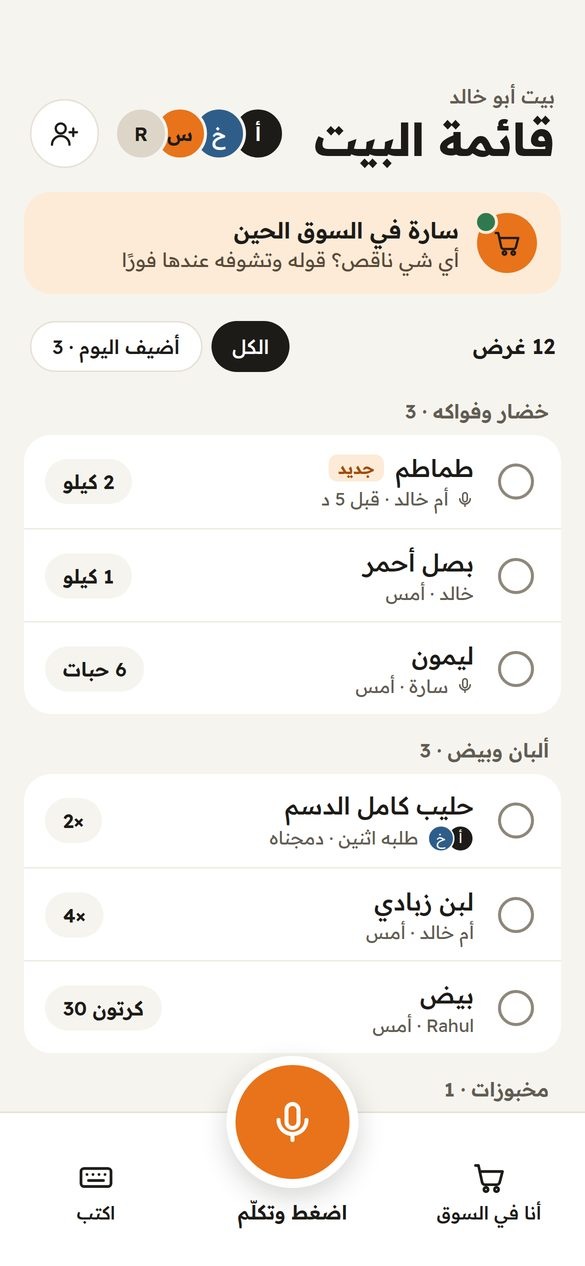
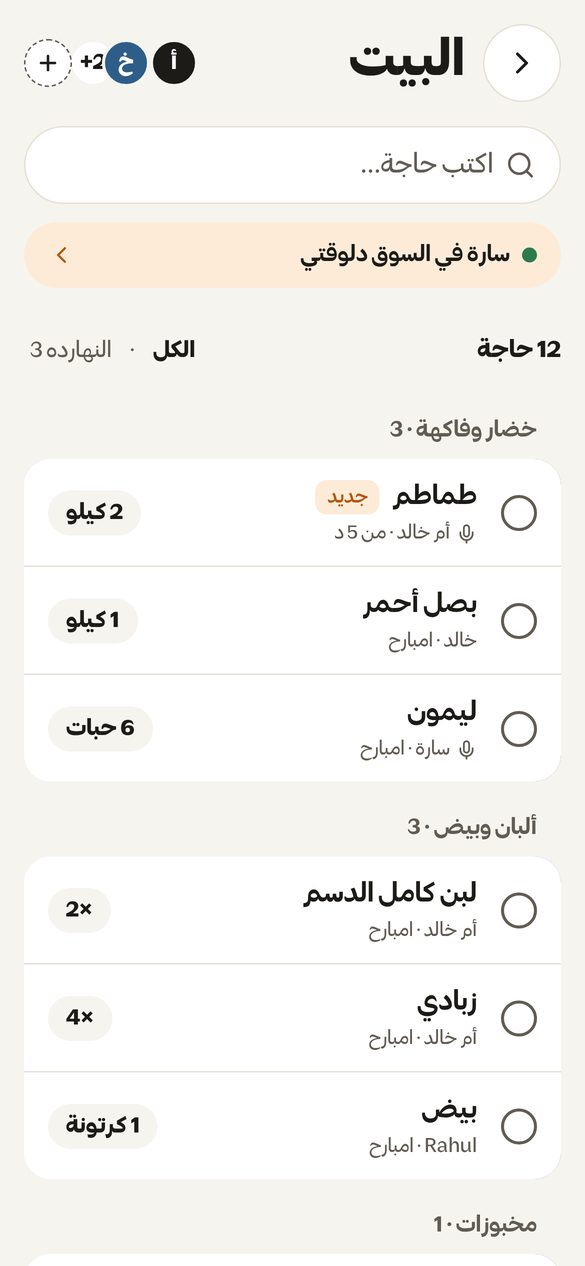
Landing: phone screens from the current app instead of the old mockups
Claude-Session: https://claude.ai/code/session_01Do6v7vy4VsMfedSmQ1Nq5Z

diff --git a/PROGRESS.md b/PROGRESS.md
@@ -1200,3 +1200,15 @@ see the plan in this conversation — and paused; nothing installed.)
 - Set up hello@sallitna.online forwarding (Namecheap «Redirect Email» → your Gmail).
 - Privacy policy page (needed for the stores) — the footer link is ready for it.
 - Push notifications (planned, waiting for: library OK, which messages, Expo + Apple accounts).
+
+## Session 27b — 2026-10-21: Landing screenshots from the current app
+
+### Done
+- The 4 phone screens on sallitna.online («شكلها من جوه» + the top of the page) are now real screenshots of the
+  current app, not the old /design mockups: the list («البيت», with «سارة في السوق دلوقتي»), «إنتي في السوق»,
+  «سؤال من سارة», and the helper's English list. Taken from the app running in a browser with sample family data
+  (same names as the designs); the browser-only tab bar was hidden.
+- (A dark subscrr-style redesign was tried and dropped — the light landing page stays.)
+
+### Known issues
+- The screens have no product photos (the sample data has none).
